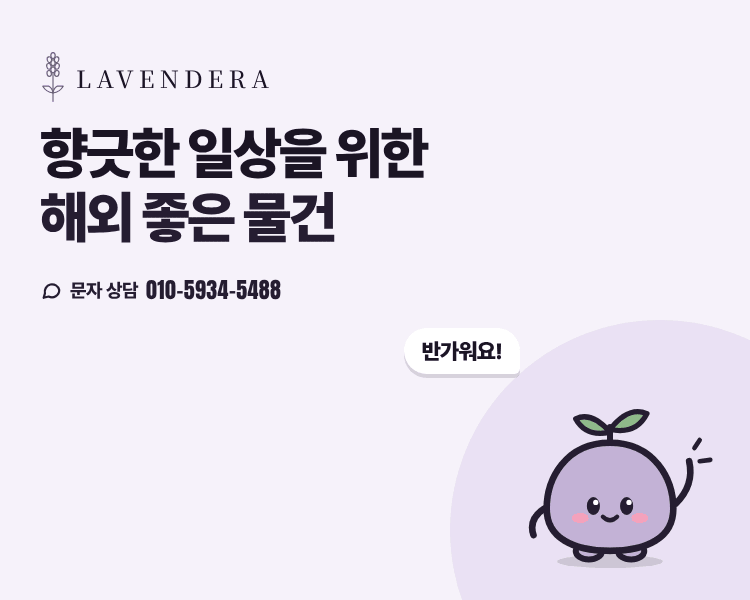
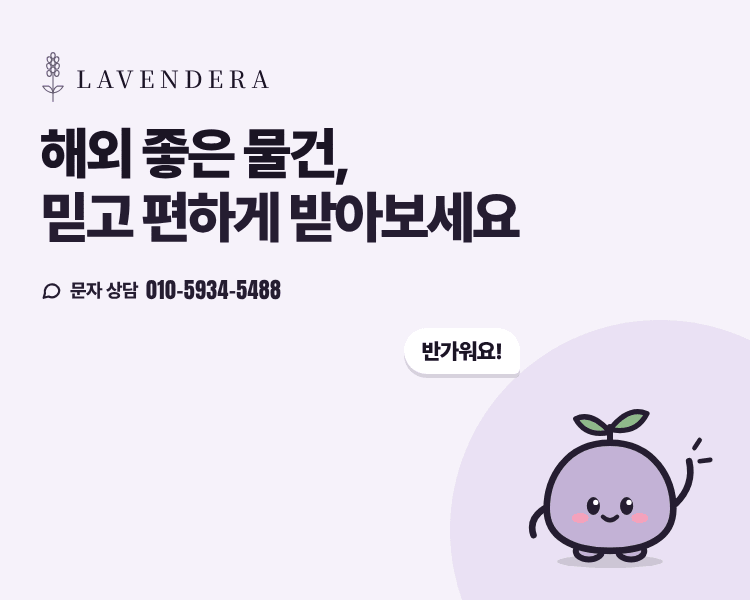
라벤더라 브랜드 배너 문구 수정: '해외 좋은 물건, 믿고 편하게 받아보세요'
Claude-Session: https://claude.ai/code/session_01PE2ziTJ29XNj6qrJ9hNtvD

Changed region(s): [[0.0307, 0.21, 0.7053, 0.42]]

diff --git a/lavendera-design/src/store_promo1.html b/lavendera-design/src/store_promo1.html
@@ -24,6 +24,6 @@ body{background:#F6F2FA}
 .pc .mascot{right:20px;top:58px;width:240px;height:228px} .m .mascot{right:0;bottom:28px;width:200px;height:190px}
 </style></head><body class="__SIZE__"><span class="blob b1"></span><div class="in">
  <div class="txt"><div class="lo"><img class="hm" src="sprig-deep.svg" width="26" height="50" alt=""><span class="nm">LAVENDERA</span></div>
-  <div class="h k900">향긋한 일상을 위한<br><span>해외 좋은 물건</span></div><div class="cs"><svg viewBox="0 0 24 24"><path d="M21 12a8 8 0 0 1-11.6 7.1L4 20.5l1.4-4.8A8 8 0 1 1 21 12z"/></svg><b>문자 상담</b><span class="num">010-5934-5488</span></div></div>
+  <div class="h k900">해외 좋은 물건,<br><span>믿고 편하게 받아보세요</span></div><div class="cs"><svg viewBox="0 0 24 24"><path d="M21 12a8 8 0 0 1-11.6 7.1L4 20.5l1.4-4.8A8 8 0 1 1 21 12z"/></svg><b>문자 상담</b><span class="num">010-5934-5488</span></div></div>
  <div class="say">반가워요!</div><div class="mascot" data-pose="wave"></div>
 </div><script src="mascot.js"></script></body></html>
